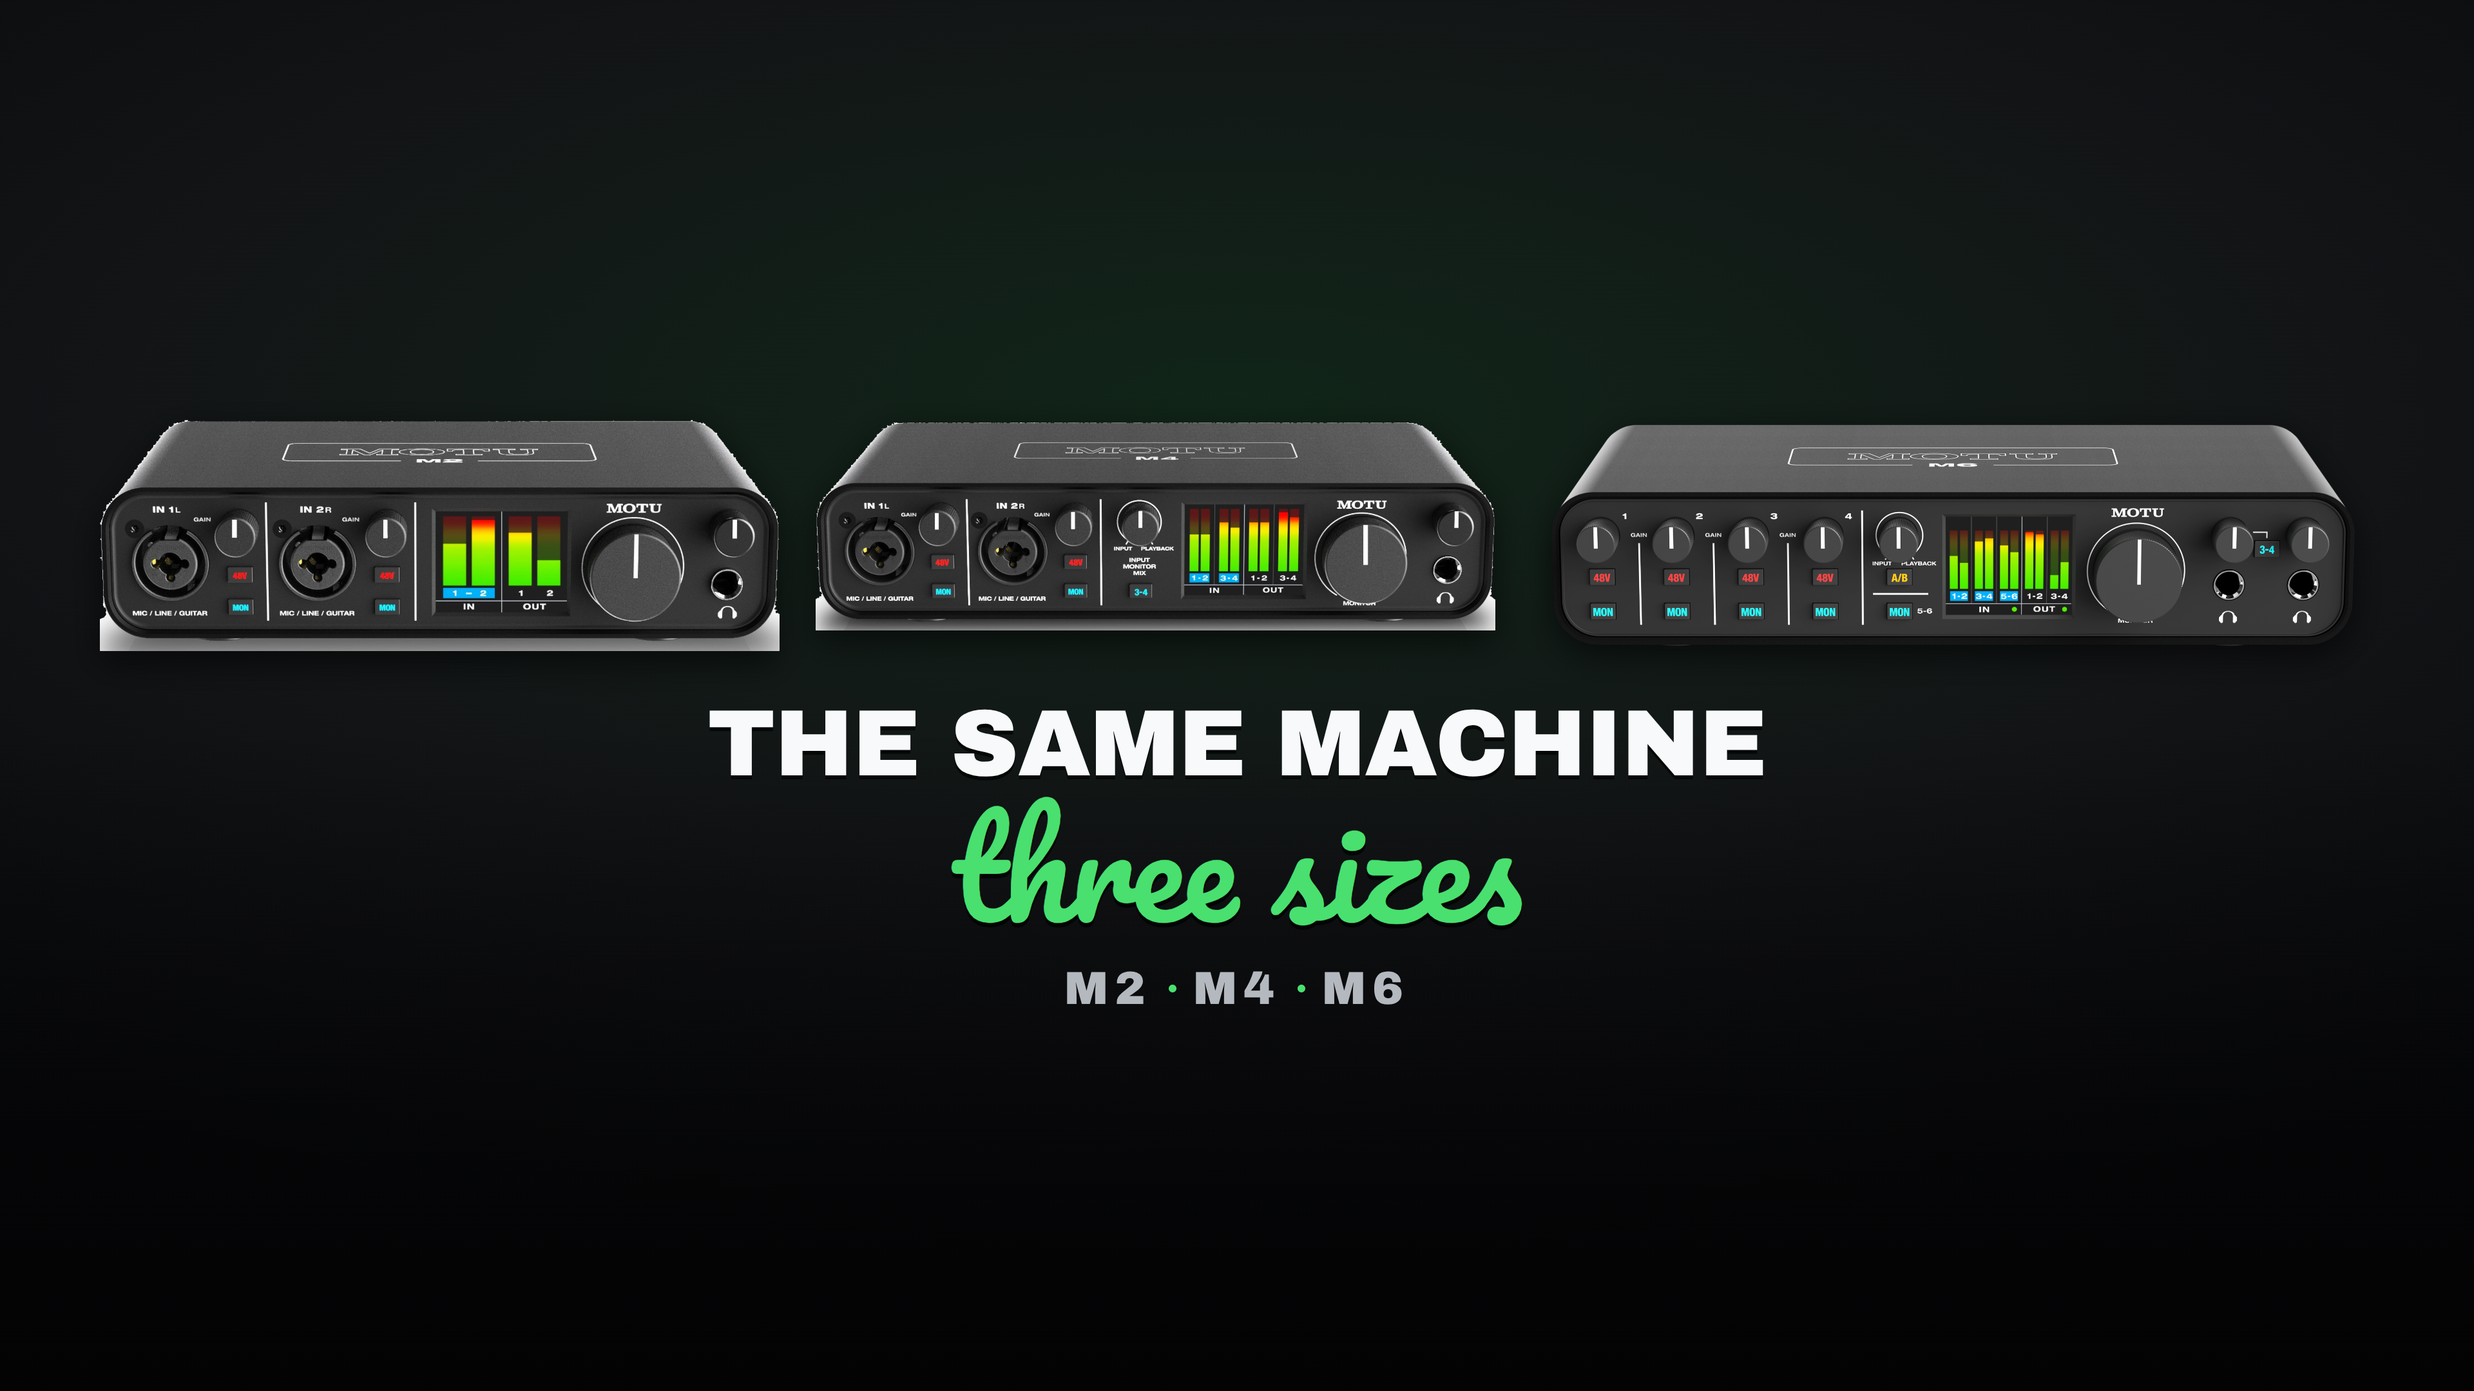
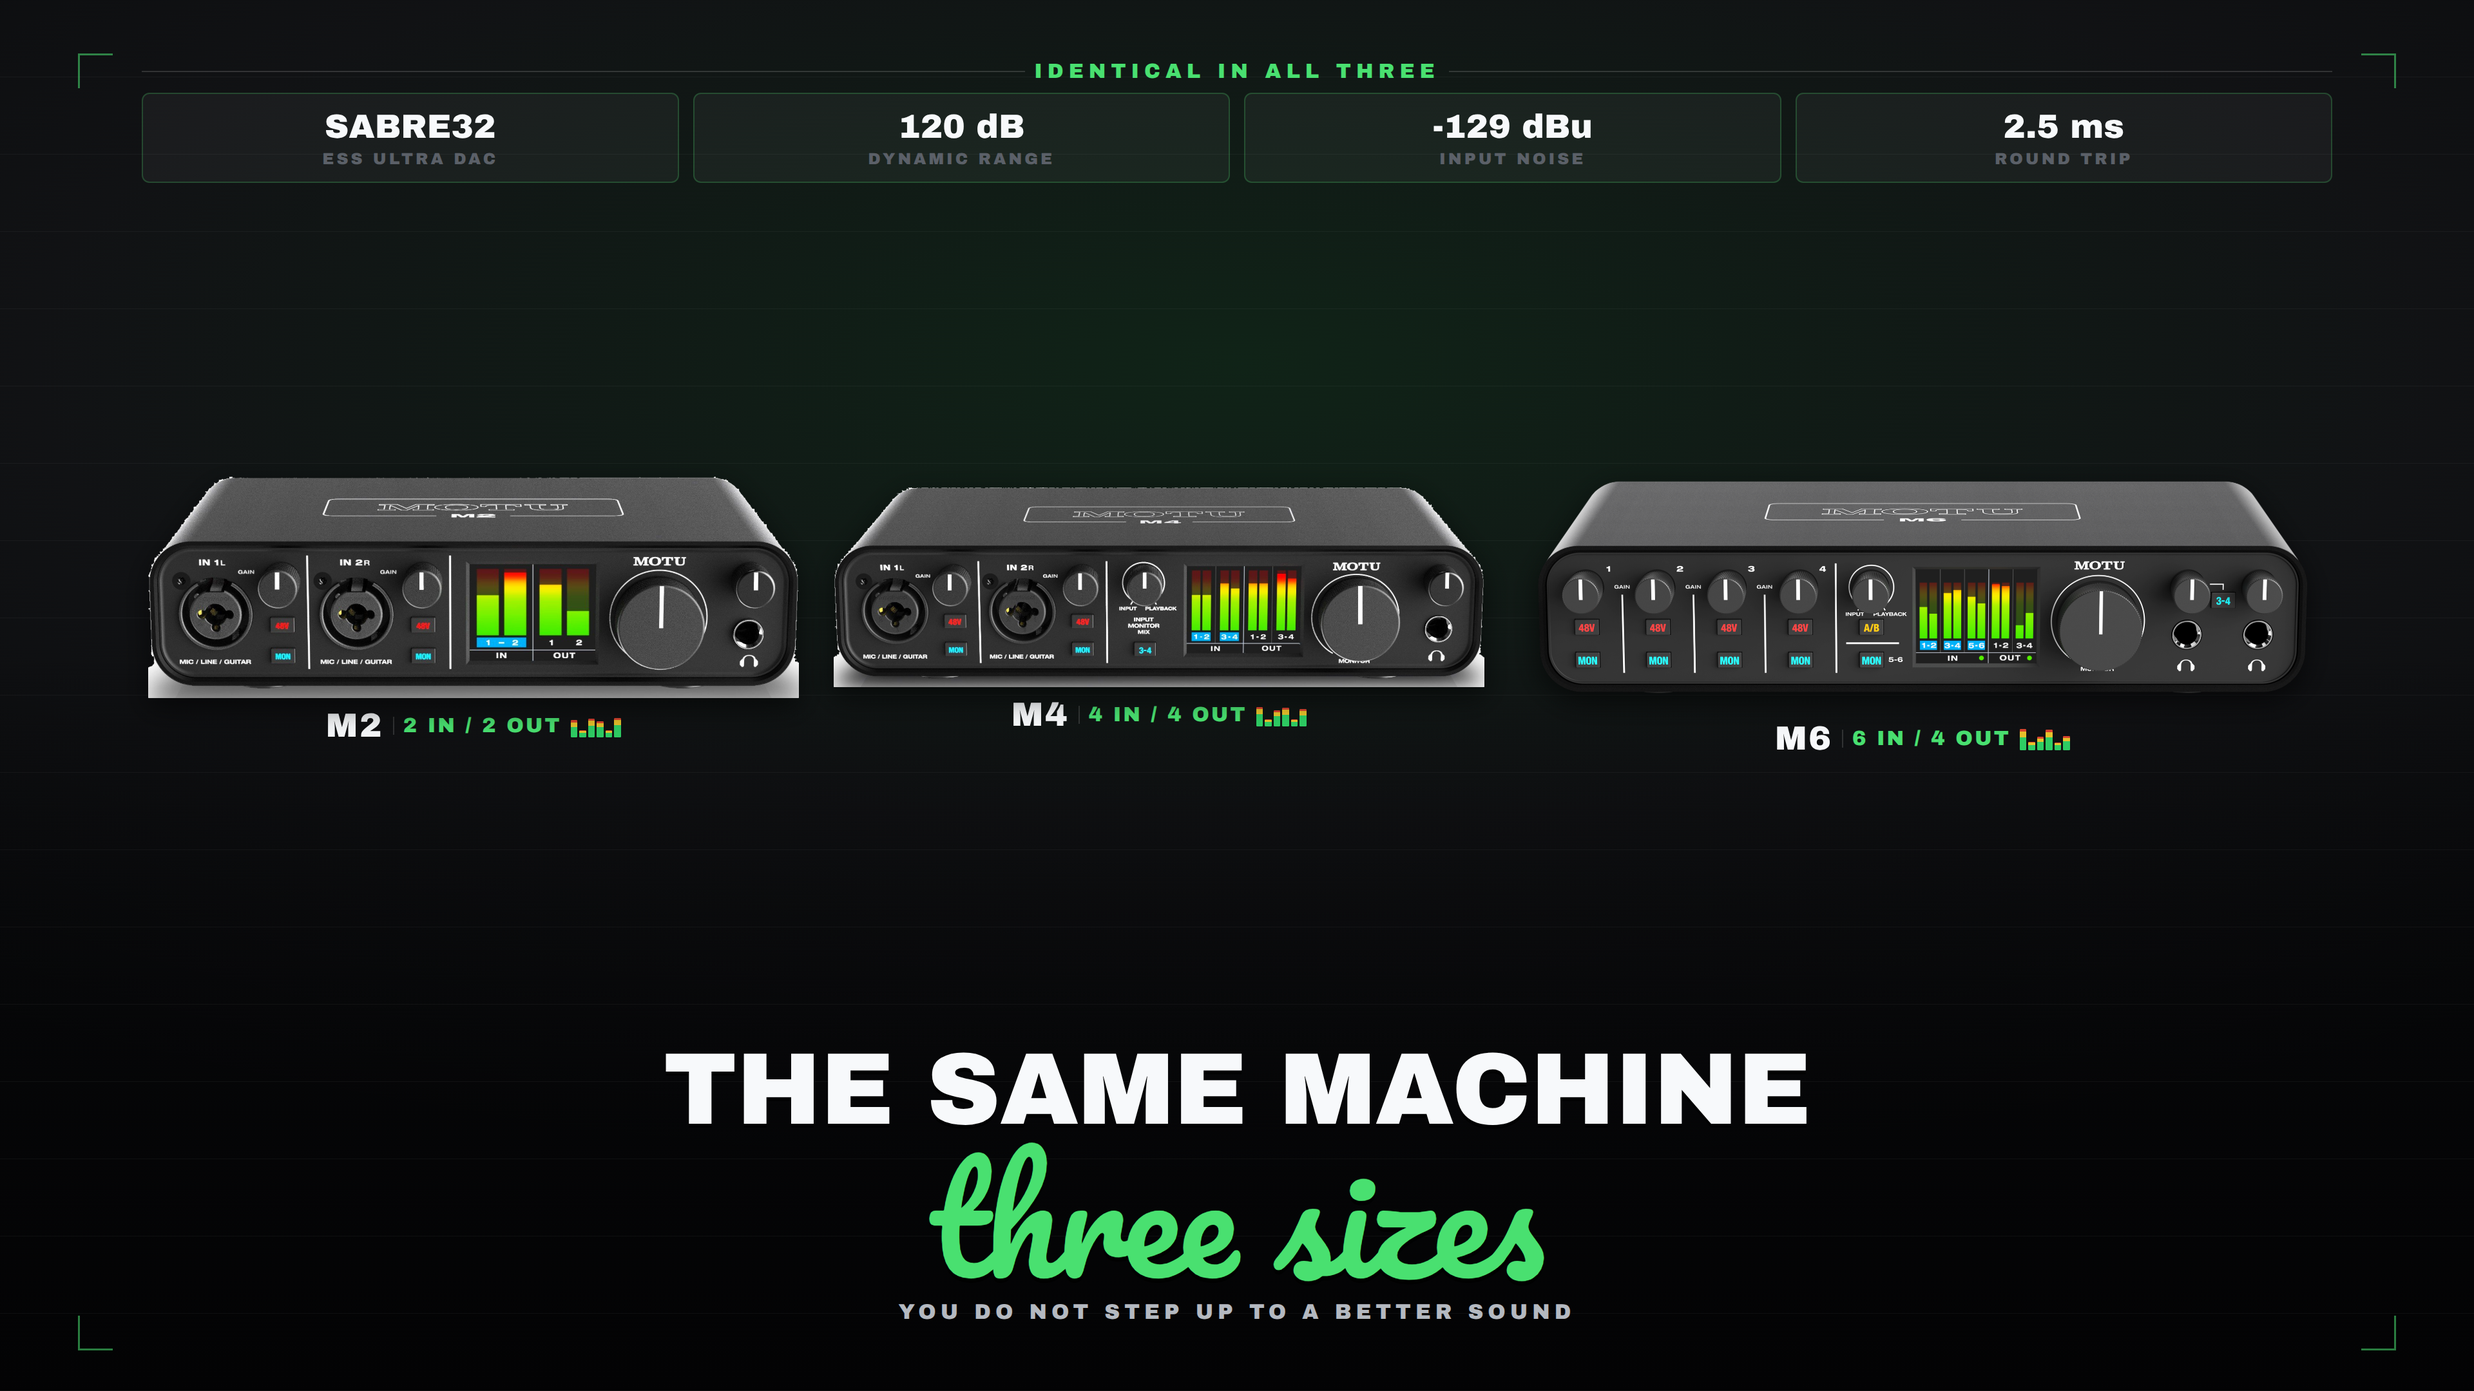
Re-edit both covers: carry the argument, not decoration
The first pass was three units, one line and a lot of empty frame. A cover has
to survive being small, but it also has to survive being looked at, and that one
did not.

Each cover now carries four things, all of them the film content rather than
ornament:

  the shared rail   SABRE32, 120 dB, -129 dBu, 2.5 ms, under the heading
                    IDENTICAL IN ALL THREE — the whole thesis in one row, and
                    nothing in it is per-model
  the lineup        the three units at their real relative widths, each
                    labelled with the one thing that differs: its own counts
  a meter motif     a six-channel bar echoing the LCD on the hardware, so the
                    frame reads as audio rather than as a product shelf
  the thesis        the headline plus the line the films actually close on

The blocks are spread across the full frame rather than clustered in the middle,
and a hairline grid and corner ticks give the empty areas structure. The rail
cannot wrap: one chip breaking to two lines made the whole row uneven, so the
converter chip reads SABRE32 / ESS ULTRA DAC and every chip is nowrap.

NO LOGOS on either cover, by instruction — and the films carry none until their
end screens, so a branded cover would contradict them.

Claude-Session: https://claude.ai/code/session_01LCqjmKobEqmNmFYX5rWy8t

diff --git a/m-series-real-world/src/Thumbnail.tsx b/m-series-real-world/src/Thumbnail.tsx
@@ -1,19 +1,56 @@
 import React from "react";
 import { AbsoluteFill, Img, staticFile, useVideoConfig } from "remotion";
-import { ACCENT, FONT, GROUND, INK, formatFor } from "./theme.ts";
+import { ACCENT, FONT, GROUND, INK, MODELS, SPEC, formatFor } from "./theme.ts";
 import { LINEUP_3Q, img } from "./assets.ts";
 import { FONT_FACE_CSS } from "./fonts.ts";
 
 // ─────────────────────────────────────────────────────────────────────────────
 // THE COVERS
 //
-// A cover is not a frame of the film — it is read at thumbnail size in a grid,
-// so it carries three things and nothing else: the three units, one line that
-// says what the film argues, and the range mark. No branding, because the films
-// carry none until their end screen and a cover that did would contradict them.
+// A cover is read at thumbnail size in a grid, so it has to survive being
+// small — but it also has to survive being looked at, and the first pass did
+// not: three units, one line and a lot of empty frame.
 //
-// The line is the film's own thesis, not a headline written for a cover.
+// It now carries the film's actual argument rather than decoration:
+//
+//   the shared rail   the four numbers that are the SAME in all three, which
+//                     is the whole thesis — nothing here is per-model
+//   the lineup        the three units at their real relative widths, each
+//                     labelled with the one thing that differs: its counts
+//   the headline      the thesis in words
+//   the meter motif   a six-channel bar echoing the LCD on the hardware, so
+//                     the frame reads as audio rather than as a product shelf
+//
+// NO LOGOS. Neither mark appears on either cover, by instruction — and the
+// films carry none until their end screens either, so a branded cover would
+// contradict them.
 // ─────────────────────────────────────────────────────────────────────────────
+
+const CHIPS = [
+  { k: "SABRE32", v: "ESS ULTRA DAC" },
+  { k: `${SPEC.dynamicRange} dB`, v: "DYNAMIC RANGE" },
+  { k: `${SPEC.ein} dBu`, v: "INPUT NOISE" },
+  { k: `${SPEC.roundTrip} ms`, v: "ROUND TRIP" },
+];
+
+/** The colour meter that runs on every one of these units. */
+const Meter: React.FC<{ S: number; w: number; h: number; seed: number }> = ({ S, w, h, seed }) => {
+  const bars = 6;
+  return (
+    <div style={{ display: "flex", gap: 3 * S, width: w, height: h, alignItems: "flex-end" }}>
+      {Array.from({ length: bars }, (_, i) => {
+        const t = ((Math.sin(seed * 12.9898 + i * 4.1414) + 1) / 2) * 0.62 + 0.30;
+        return (
+          <div key={i} style={{ flex: 1, height: `${t * 100}%`, borderRadius: 1.5 * S, overflow: "hidden", display: "flex", flexDirection: "column-reverse" }}>
+            <div style={{ height: "62%", background: "#2ECC63" }} />
+            <div style={{ height: "26%", background: "#E8C22B" }} />
+            <div style={{ height: "12%", background: "#D8432E" }} />
+          </div>
+        );
+      })}
+    </div>
+  );
+};
 
 export const Thumbnail: React.FC = () => {
   const { width: W, height: H } = useVideoConfig();
@@ -22,110 +59,117 @@ export const Thumbnail: React.FC = () => {
   const S = W / (P ? 2160 : 3840);
   const acc = ACCENT.shared;
   const sig = ACCENT.signal;
-
-  // Three-quarter views: the top lid and the front panel, the way the hardware
-  // actually reads. Widths follow the real chassis, not the layout's convenience.
+  const hair = "rgba(255,255,255,0.14)";
 
   return (
-    <AbsoluteFill style={{ background: GROUND.dark, overflow: "hidden" }}>
+    <AbsoluteFill style={{ background: GROUND.dark, overflow: "hidden", fontFamily: FONT.display }}>
       <style>{FONT_FACE_CSS}</style>
-      <AbsoluteFill
-        style={{
-          background:
-            `radial-gradient(110% 80% at 50% 30%, ${sig.glow}22 0%, ${acc.glow}0C 42%, transparent 76%)`,
-        }}
-      />
-      {/* the room floor, so the units are standing on something */}
-      <AbsoluteFill
-        style={{
-          background: `linear-gradient(180deg, transparent 52%, ${GROUND.darkSink} 100%)`,
-        }}
-      />
 
-      <div
-        style={{
+      {/* room */}
+      <AbsoluteFill style={{ background: `radial-gradient(110% 76% at 50% 26%, ${sig.glow}1F 0%, ${acc.glow}0A 44%, transparent 78%)` }} />
+      <AbsoluteFill style={{ background: `linear-gradient(180deg, transparent 46%, ${GROUND.darkSink} 100%)` }} />
+      {/* a faint rule grid, so the frame has structure instead of void */}
+      <AbsoluteFill style={{
+        backgroundImage: `repeating-linear-gradient(0deg, ${hair} 0 1px, transparent 1px ${Math.round(120 * S)}px)`,
+        opacity: 0.30,
+      }} />
+
+      {/* corner ticks */}
+      {[[0, 0], [1, 0], [0, 1], [1, 1]].map(([x, y], i) => (
+        <div key={i} style={{
           position: "absolute",
-          inset: 0,
-          display: "flex",
-          flexDirection: "column",
-          alignItems: "center",
-          justifyContent: "center",
-          gap: P ? 80 * S : 48 * S,
-          padding: `${fmt.safe.top}px ${fmt.safe.left}px ${fmt.safe.bottom * 0.5}px`,
-        }}
-      >
-        <div
-          style={{
-            display: "flex",
-            flexDirection: P ? "column" : "row",
-            alignItems: "center",
-            justifyContent: "center",
-            gap: P ? 34 * S : 56 * S,
-          }}
-        >
-          {LINEUP_3Q.map(({ slug, rel }, i) => (
-            <Img
-              key={slug}
-              src={staticFile(img(slug).file)}
-              style={{
-                width: (P ? 1520 : 1055) * S * rel,
-                height: "auto",
-                filter: `saturate(1.06) drop-shadow(0 ${16 * S}px ${26 * S}px rgba(0,0,0,0.6))`,
-                transform: `translateY(${(i === 1 ? -14 : 0) * S}px)`,
-              }}
-            />
-          ))}
+          left: x ? undefined : fmt.safe.left * 0.55, right: x ? fmt.safe.right * 0.55 : undefined,
+          top: y ? undefined : fmt.safe.top * 0.55, bottom: y ? fmt.safe.bottom * 0.30 : undefined,
+          width: 54 * S, height: 54 * S,
+          borderLeft: x ? "none" : `${3 * S}px solid ${sig.glow}`,
+          borderRight: x ? `${3 * S}px solid ${sig.glow}` : "none",
+          borderTop: y ? "none" : `${3 * S}px solid ${sig.glow}`,
+          borderBottom: y ? `${3 * S}px solid ${sig.glow}` : "none",
+          opacity: 0.55,
+        }} />
+      ))}
+
+      <div style={{
+        position: "absolute", inset: 0, display: "flex", flexDirection: "column",
+        alignItems: "center", justifyContent: "space-between",
+        padding: `${fmt.safe.top * (P ? 0.72 : 0.62)}px ${fmt.safe.left}px ${fmt.safe.bottom * (P ? 0.34 : 0.50)}px`,
+      }}>
+
+        {/* ── the shared rail: what does NOT change ─────────────────────── */}
+        <div style={{ width: "100%" }}>
+          <div style={{
+            display: "flex", alignItems: "center", gap: 14 * S,
+            marginBottom: 16 * S, justifyContent: "center",
+          }}>
+            <div style={{ height: 2 * S, flex: 1, background: hair }} />
+            <span style={{ fontSize: (P ? 40 : 32) * S, letterSpacing: 8 * S, color: sig.glow }}>
+              IDENTICAL IN ALL THREE
+            </span>
+            <div style={{ height: 2 * S, flex: 1, background: hair }} />
+          </div>
+          <div style={{ display: "flex", gap: (P ? 16 : 22) * S, justifyContent: "center" }}>
+            {CHIPS.map((c) => (
+              <div key={c.v} style={{
+                flex: 1, textAlign: "center",
+                padding: `${(P ? 26 : 22) * S}px ${10 * S}px`,
+                borderRadius: 12 * S,
+                background: "rgba(255,255,255,0.045)",
+                border: `${Math.max(1, 2 * S)}px solid ${sig.glow}3A`,
+              }}>
+                <div style={{ fontSize: (P ? 60 : 52) * S, color: INK.onDark, letterSpacing: 0, whiteSpace: "nowrap" }}>{c.k}</div>
+                <div style={{ marginTop: 8 * S, fontSize: (P ? 30 : 25) * S, letterSpacing: 4 * S, color: INK.onDarkDim, whiteSpace: "nowrap" }}>{c.v}</div>
+              </div>
+            ))}
+          </div>
         </div>
 
-        <div style={{ textAlign: "center", maxWidth: fmt.safe.w }}>
-          <div
-            style={{
-              fontFamily: FONT.display,
-              fontSize: (P ? 176 : 146) * S,
-              lineHeight: 1.04,
-              letterSpacing: -1 * S,
-              color: INK.onDark,
-              textShadow: `0 ${6 * S}px 0 rgba(0,0,0,0.7)`,
-            }}
-          >
+        {/* ── the lineup: what DOES change ─────────────────────────────── */}
+        <div style={{
+          display: "flex", flexDirection: P ? "column" : "row",
+          alignItems: "center", justifyContent: "center", gap: (P ? 34 : 54) * S, width: "100%",
+        }}>
+          {LINEUP_3Q.map(({ slug, rel }, i) => {
+            const m = MODELS[i];
+            return (
+              <div key={slug} style={{ display: "flex", flexDirection: "column", alignItems: "center", gap: 14 * S }}>
+                <Img src={staticFile(img(slug).file)} style={{
+                  width: (P ? 1500 : 1010) * S * rel, height: "auto",
+                  filter: `saturate(1.06) drop-shadow(0 ${14 * S}px ${22 * S}px rgba(0,0,0,0.6))`,
+                }} />
+                <div style={{ display: "flex", alignItems: "center", gap: 14 * S }}>
+                  <span style={{ fontSize: (P ? 62 : 52) * S, letterSpacing: 3 * S, color: INK.onDark }}>{m.short}</span>
+                  <div style={{ width: 2 * S, height: (P ? 34 : 28) * S, background: hair }} />
+                  <span style={{ fontSize: (P ? 38 : 32) * S, letterSpacing: 3 * S, color: sig.glow }}>
+                    {m.inputs} IN / {m.outputs} OUT
+                  </span>
+                  <Meter S={S} w={(P ? 96 : 78) * S} h={(P ? 44 : 36) * S} seed={i + 1} />
+                </div>
+              </div>
+            );
+          })}
+        </div>
+
+        {/* ── the thesis ───────────────────────────────────────────────── */}
+        <div style={{ textAlign: "center" }}>
+          <div style={{
+            fontSize: (P ? 196 : 158) * S, lineHeight: 1.02, letterSpacing: -1 * S,
+            color: INK.onDark, textShadow: `0 ${6 * S}px 0 rgba(0,0,0,0.72)`,
+          }}>
             THE SAME MACHINE
           </div>
-          <div
-            style={{
-              fontFamily: FONT.script,
-              fontSize: (P ? 246 : 206) * S,
-              lineHeight: 1.0,
-              color: sig.glow,
-              textShadow: `0 ${7 * S}px 0 rgba(0,0,0,0.7)`,
-              marginTop: 10 * S,
-            }}
-          >
+          <div style={{
+            fontFamily: FONT.script, fontSize: (P ? 268 : 222) * S, lineHeight: 1.0,
+            color: sig.glow, textShadow: `0 ${7 * S}px 0 rgba(0,0,0,0.72)`, marginTop: 6 * S,
+          }}>
             three sizes
           </div>
-        </div>
-
-        <div
-          style={{
-            display: "flex",
-            alignItems: "center",
-            gap: 26 * S,
-            fontFamily: FONT.display,
-            fontSize: (P ? 88 : 72) * S,
-            letterSpacing: 10 * S,
-            color: INK.onDarkSoft,
-          }}
-        >
-          <span>M2</span>
-          <Dot s={S} c={sig.glow} />
-          <span>M4</span>
-          <Dot s={S} c={sig.glow} />
-          <span>M6</span>
+          <div style={{
+            marginTop: 18 * S, fontSize: (P ? 40 : 33) * S, letterSpacing: 7 * S, color: INK.onDarkSoft,
+          }}>
+            YOU DO NOT STEP UP TO A BETTER SOUND
+          </div>
         </div>
       </div>
     </AbsoluteFill>
   );
 };
-
-const Dot: React.FC<{ s: number; c: string }> = ({ s, c }) => (
-  <span style={{ width: 12 * s, height: 12 * s, background: c, borderRadius: 99, display: "inline-block" }} />
-);
